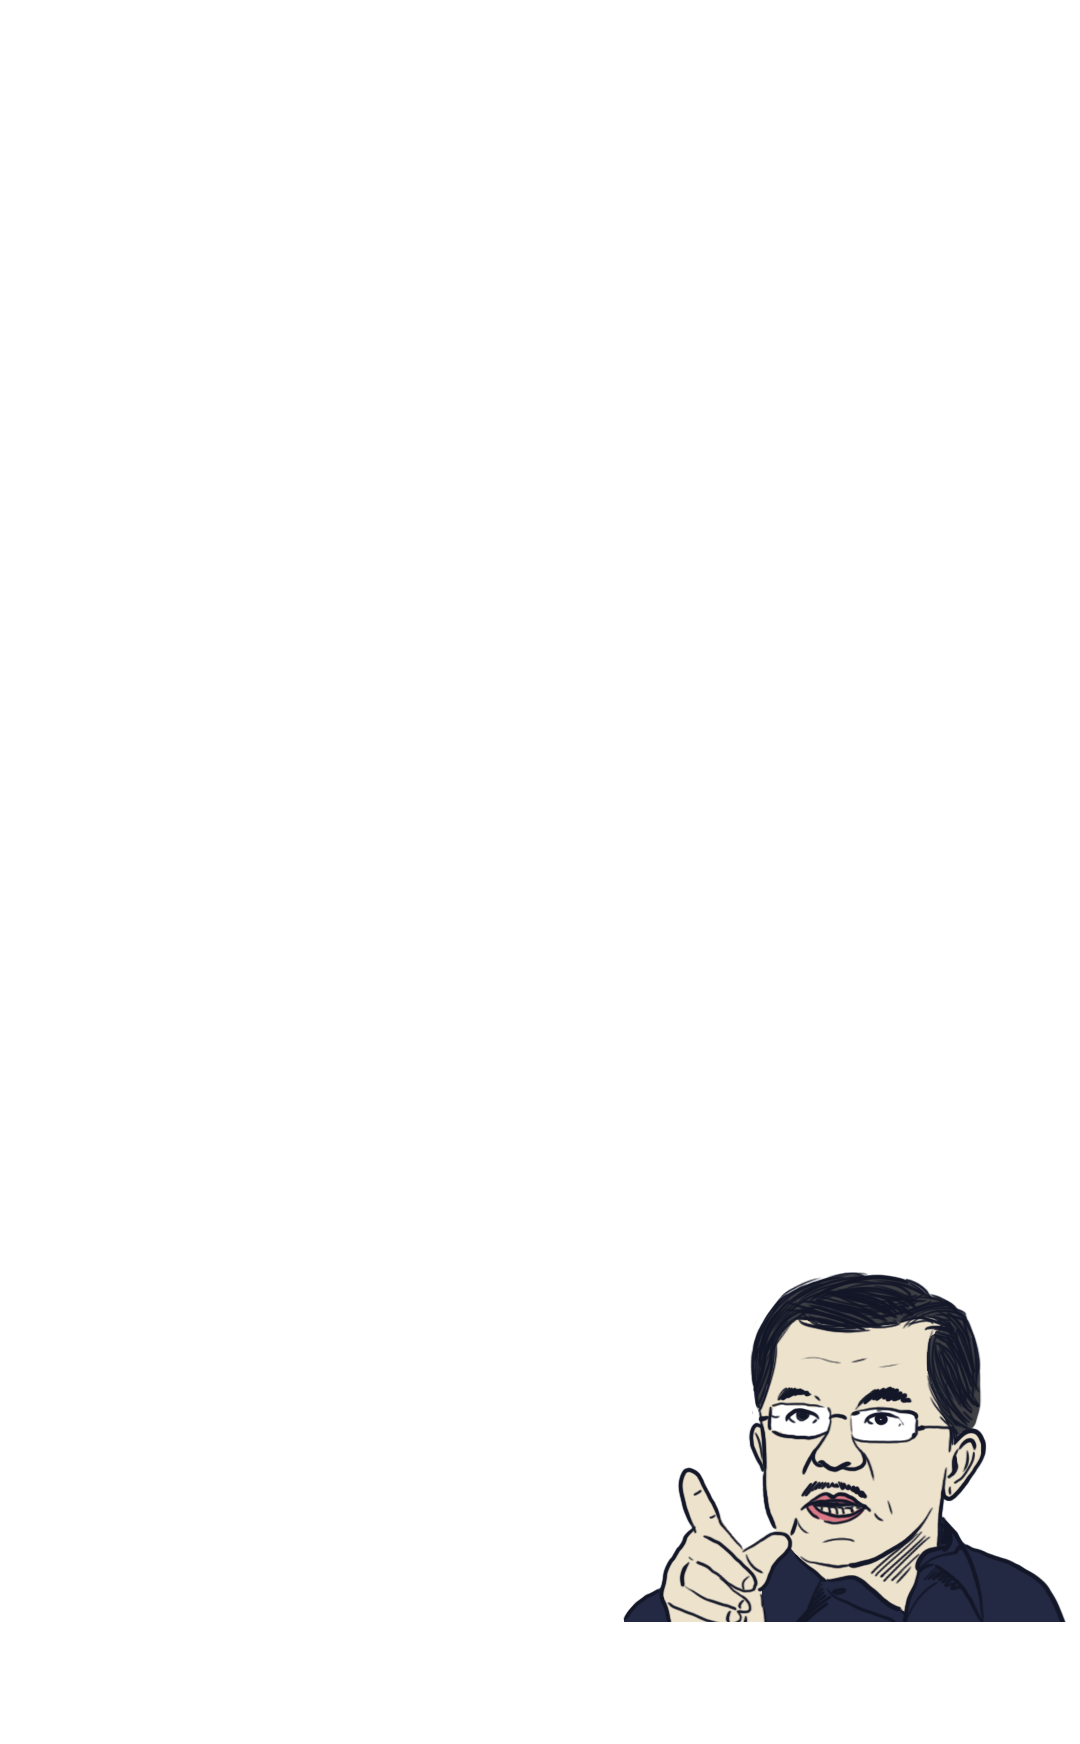
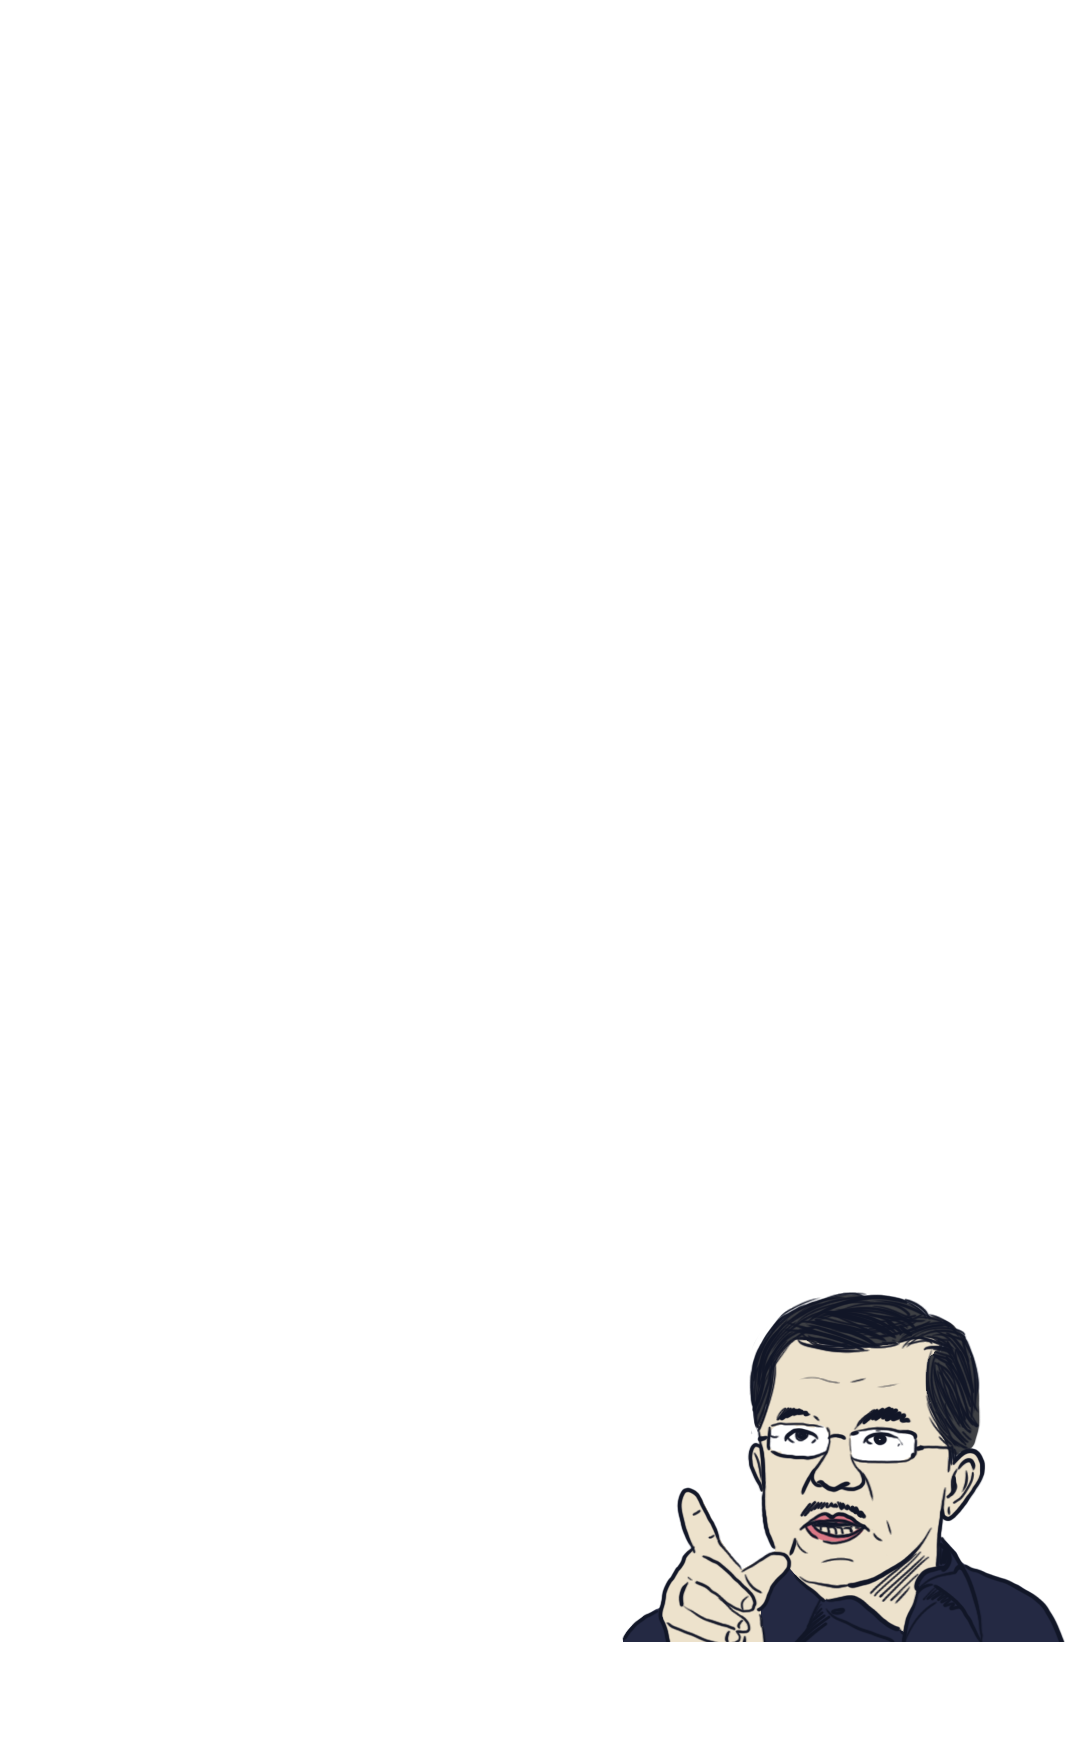
fix: responsive

Changed region(s): [[0.5806, 0.7122, 0.9778, 0.9599]]

diff --git a/dinamika-pemilu/src/components/dynamic/section-direct-election.tsx b/dinamika-pemilu/src/components/dynamic/section-direct-election.tsx
@@ -18,7 +18,7 @@ export default function SectionDirectElection() {
     },
   };
   return (
-    <div className="flex flex-row items-start justify-center w-full h-[530px] min-[375px]:h-[610px] min-[390px]:h-[630px] min-[425px]:h-[680px] min-[768px]:h-[1200px] min-[1024px]:h-[1580px] min-[1440px]:h-[1130px] min-[1920px]:h-[1480px] min-[2560px]:h-[1970px] bg-orange-950 relative">
+    <div className="flex flex-row items-start justify-center w-full h-[530px] min-[375px]:h-[610px] min-[390px]:h-[630px] min-[425px]:h-[680px] min-[768px]:h-[1200px] min-[820px]:h-[1280px] min-[1024px]:h-[1580px] min-[1440px]:h-[1130px] min-[1920px]:h-[1480px] min-[2560px]:h-[1970px] bg-orange-950 relative">
       <motion.div
         viewport={{ once: true }}
         className="w-full h-full"
@@ -42,7 +42,6 @@ export default function SectionDirectElection() {
             />
           );
         })}
-        <div className="h-[50px] z-20 bg-orange-950 w-full absolute bottom-0" />
       </motion.div>
     </div>
   );
